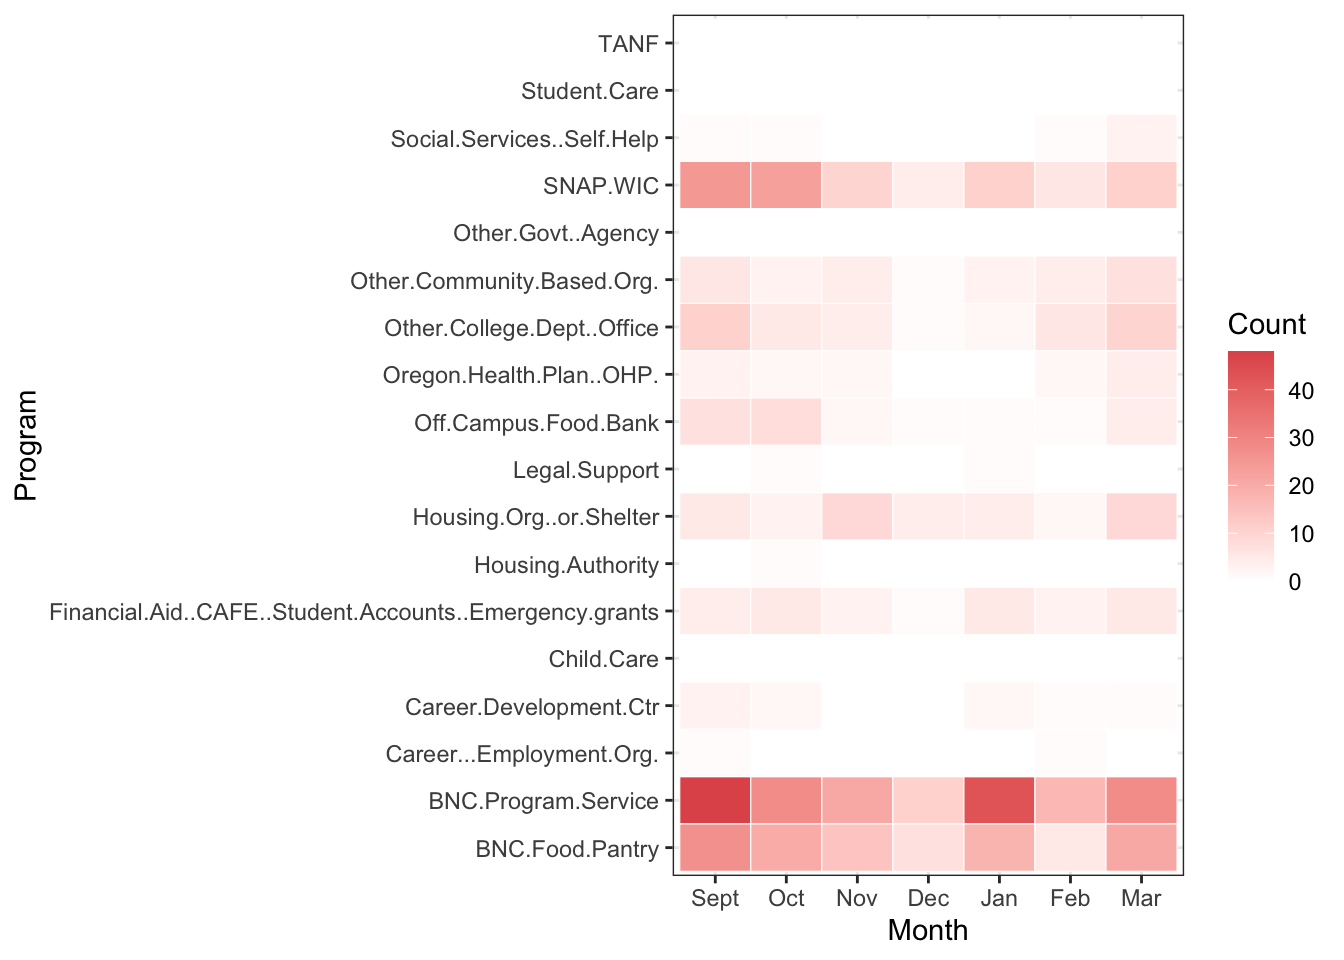
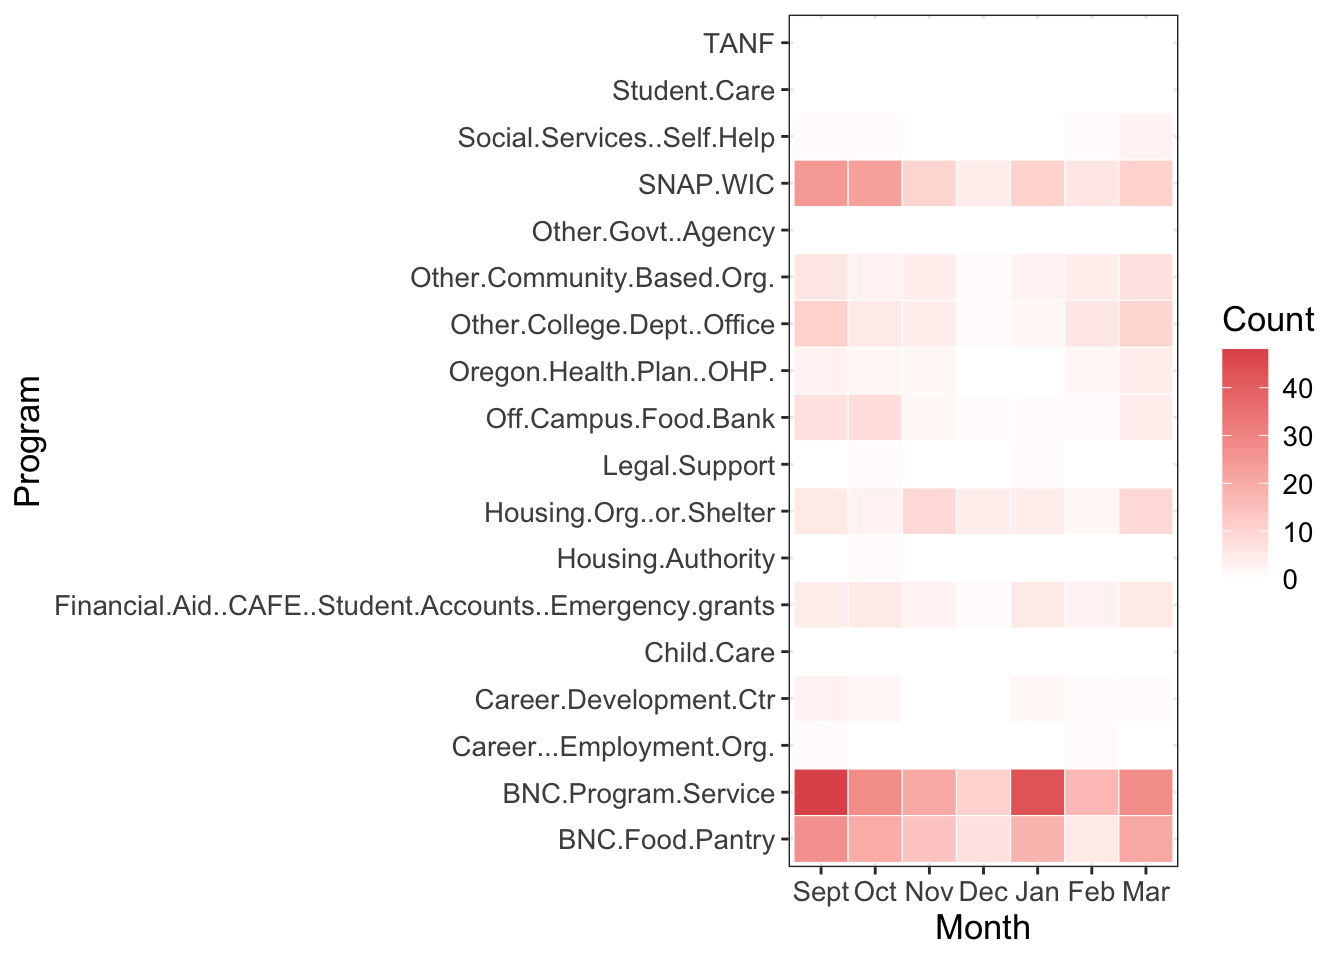
Corrected themeing

diff --git a/PeerConvos.html b/PeerConvos.html
@@ -140,26 +140,6 @@ ul.task-list li input[type="checkbox"] {
 </figure>
 </div>
 </div>
-<div class="cell-output cell-output-stdout">
-<pre><code>&lt;theme&gt; List of 1
- $ text: &lt;ggplot2::element_text&gt;
-  ..@ family       : chr "Arial"
-  ..@ face         : NULL
-  ..@ italic       : chr NA
-  ..@ fontweight   : num NA
-  ..@ fontwidth    : num NA
-  ..@ colour       : NULL
-  ..@ size         : num 13
-  ..@ hjust        : NULL
-  ..@ vjust        : NULL
-  ..@ angle        : NULL
-  ..@ lineheight   : NULL
-  ..@ margin       : NULL
-  ..@ debug        : NULL
-  ..@ inherit.blank: logi FALSE
- @ complete: logi FALSE
- @ validate: logi TRUE</code></pre>
-</div>
 </div>
 </section>
 </section>